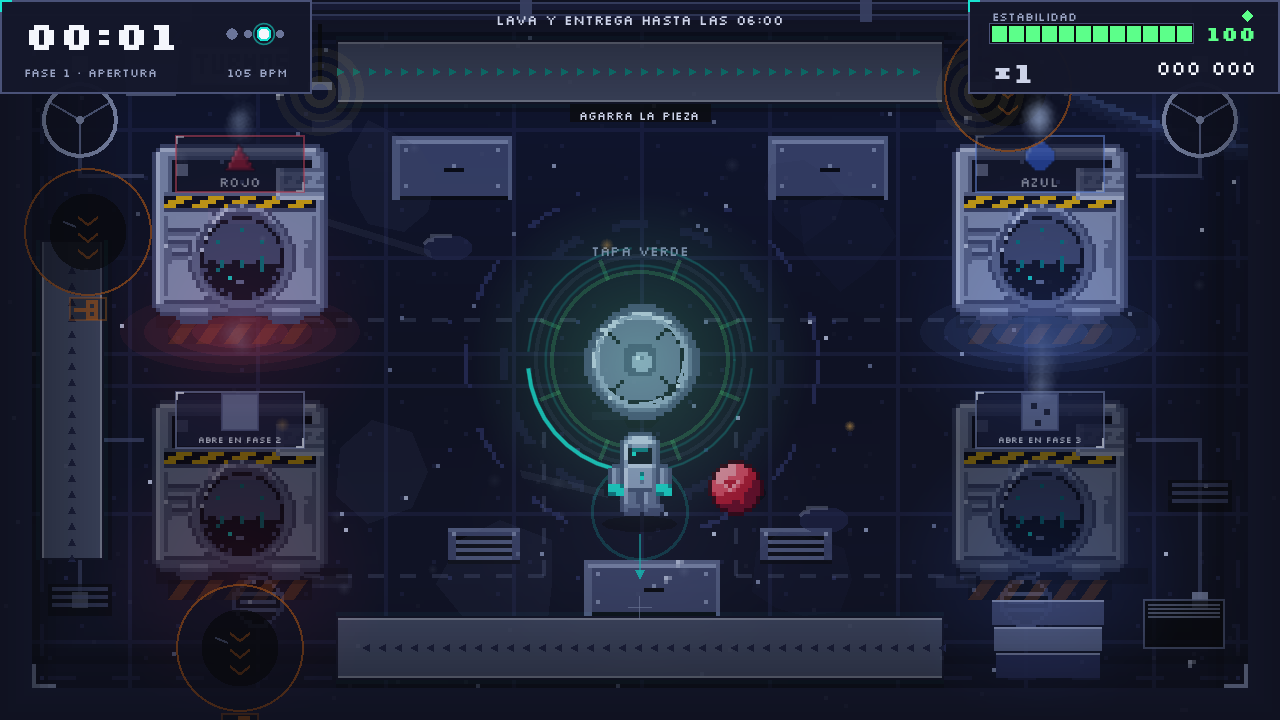
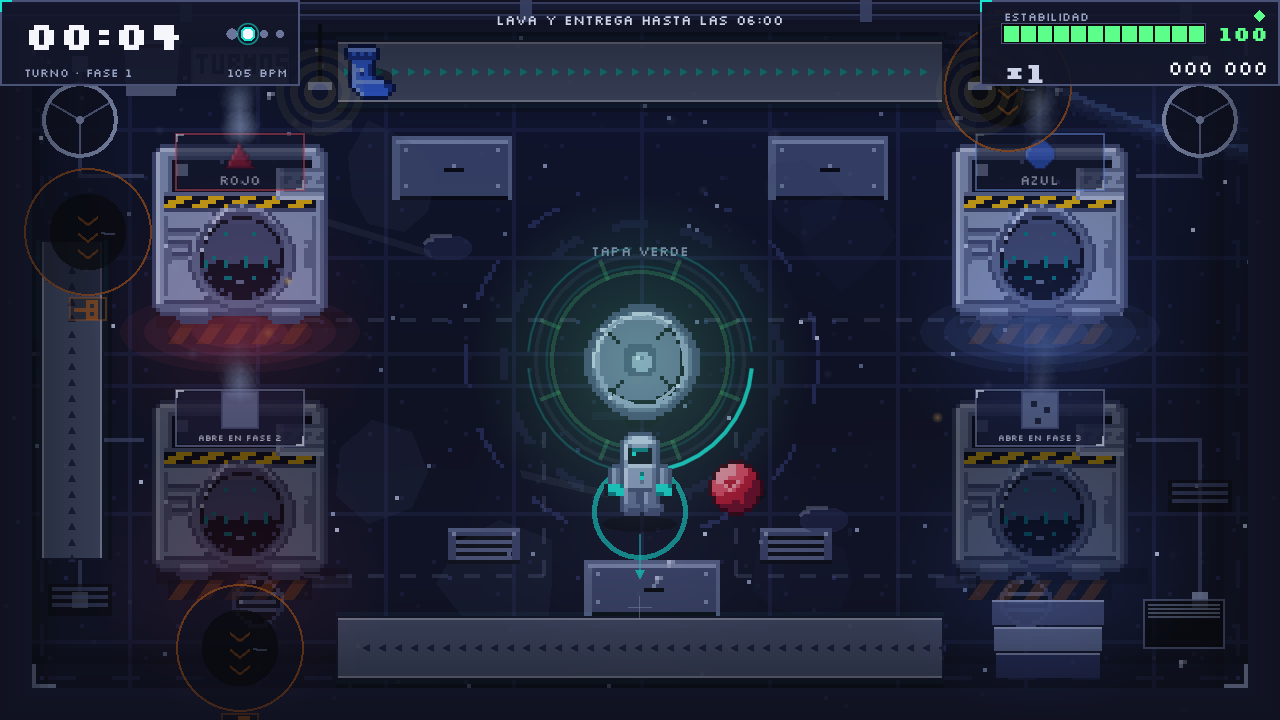
feat(combo): sustained combo adds delivery stability; HUD and docs explain it

diff --git a/docs/DECISIONS.md b/docs/DECISIONS.md
@@ -322,3 +322,13 @@ assert the new numbers.
    room centre, so items that pile at the far end of a reversed belt cannot stay stuck.
 8. **HUD smaller**: plaques 300×86 at 90 % instead of 312×94 at 97 %; holograms sit 64 px into
    the cabinet so the drum is never covered.
+
+## D041 — Combo has a survival payoff, not only a score payoff
+2026-11-25 · The owner asked the right question: "what does the combo do for me? Just score?"
+It did only multiply points at the chute (`item.points × combo`), which feeds the rank but
+never changes a decision during play. Adopted: **×4 adds +1 stability on delivery, ×8 adds
++2** (`ScoreRules.combo_stability_bonus`), so holding a combo through a bad stretch is a
+survival tool, not a vanity number. The HUD caption now reads `COMBO · PUNTOS` and switches
+to `COMBO · +ESTAB` (cyan) at ×4, and the first time the player reaches ×4 a single toast
+explains it. Nothing else about the combo changed (build +2/+1, MISS resets, cap ×8).
+Change: `ScoreRules` + `DeliveryChute` + `HUD._on_combo`.

diff --git a/docs/CONTRACTS.md b/docs/CONTRACTS.md
@@ -104,7 +104,9 @@ API: `reset(seed: int = 0)`, `add_stability(delta: float, reason: String = "")`,
 `end_shift(victory: bool, reason: String)`, `accuracy() -> float`,
 `max_combo -> int`, `reset_rng(seed)`.
 
-Rules: combo starts ×1, `PERFECT +2`, `GOOD +1`, `MISS` resets to ×1, cap ×8. Stability
+Rules: combo starts ×1, `PERFECT +2`, `GOOD +1`, `MISS` resets to ×1, cap ×8. Combo
+multiplies delivery points (`item.points × combo`) and, at ×4 and ×8, adds +1 / +2 stability
+on delivery (`ScoreRules.delivery_stability`, D041). Stability
 clamps 0…100; reaching 0 ends the shift as defeat (`reason = "stability"`). `accuracy()`
 = `(perfect + good) / max(rhythm_actions, 1)`.
 
